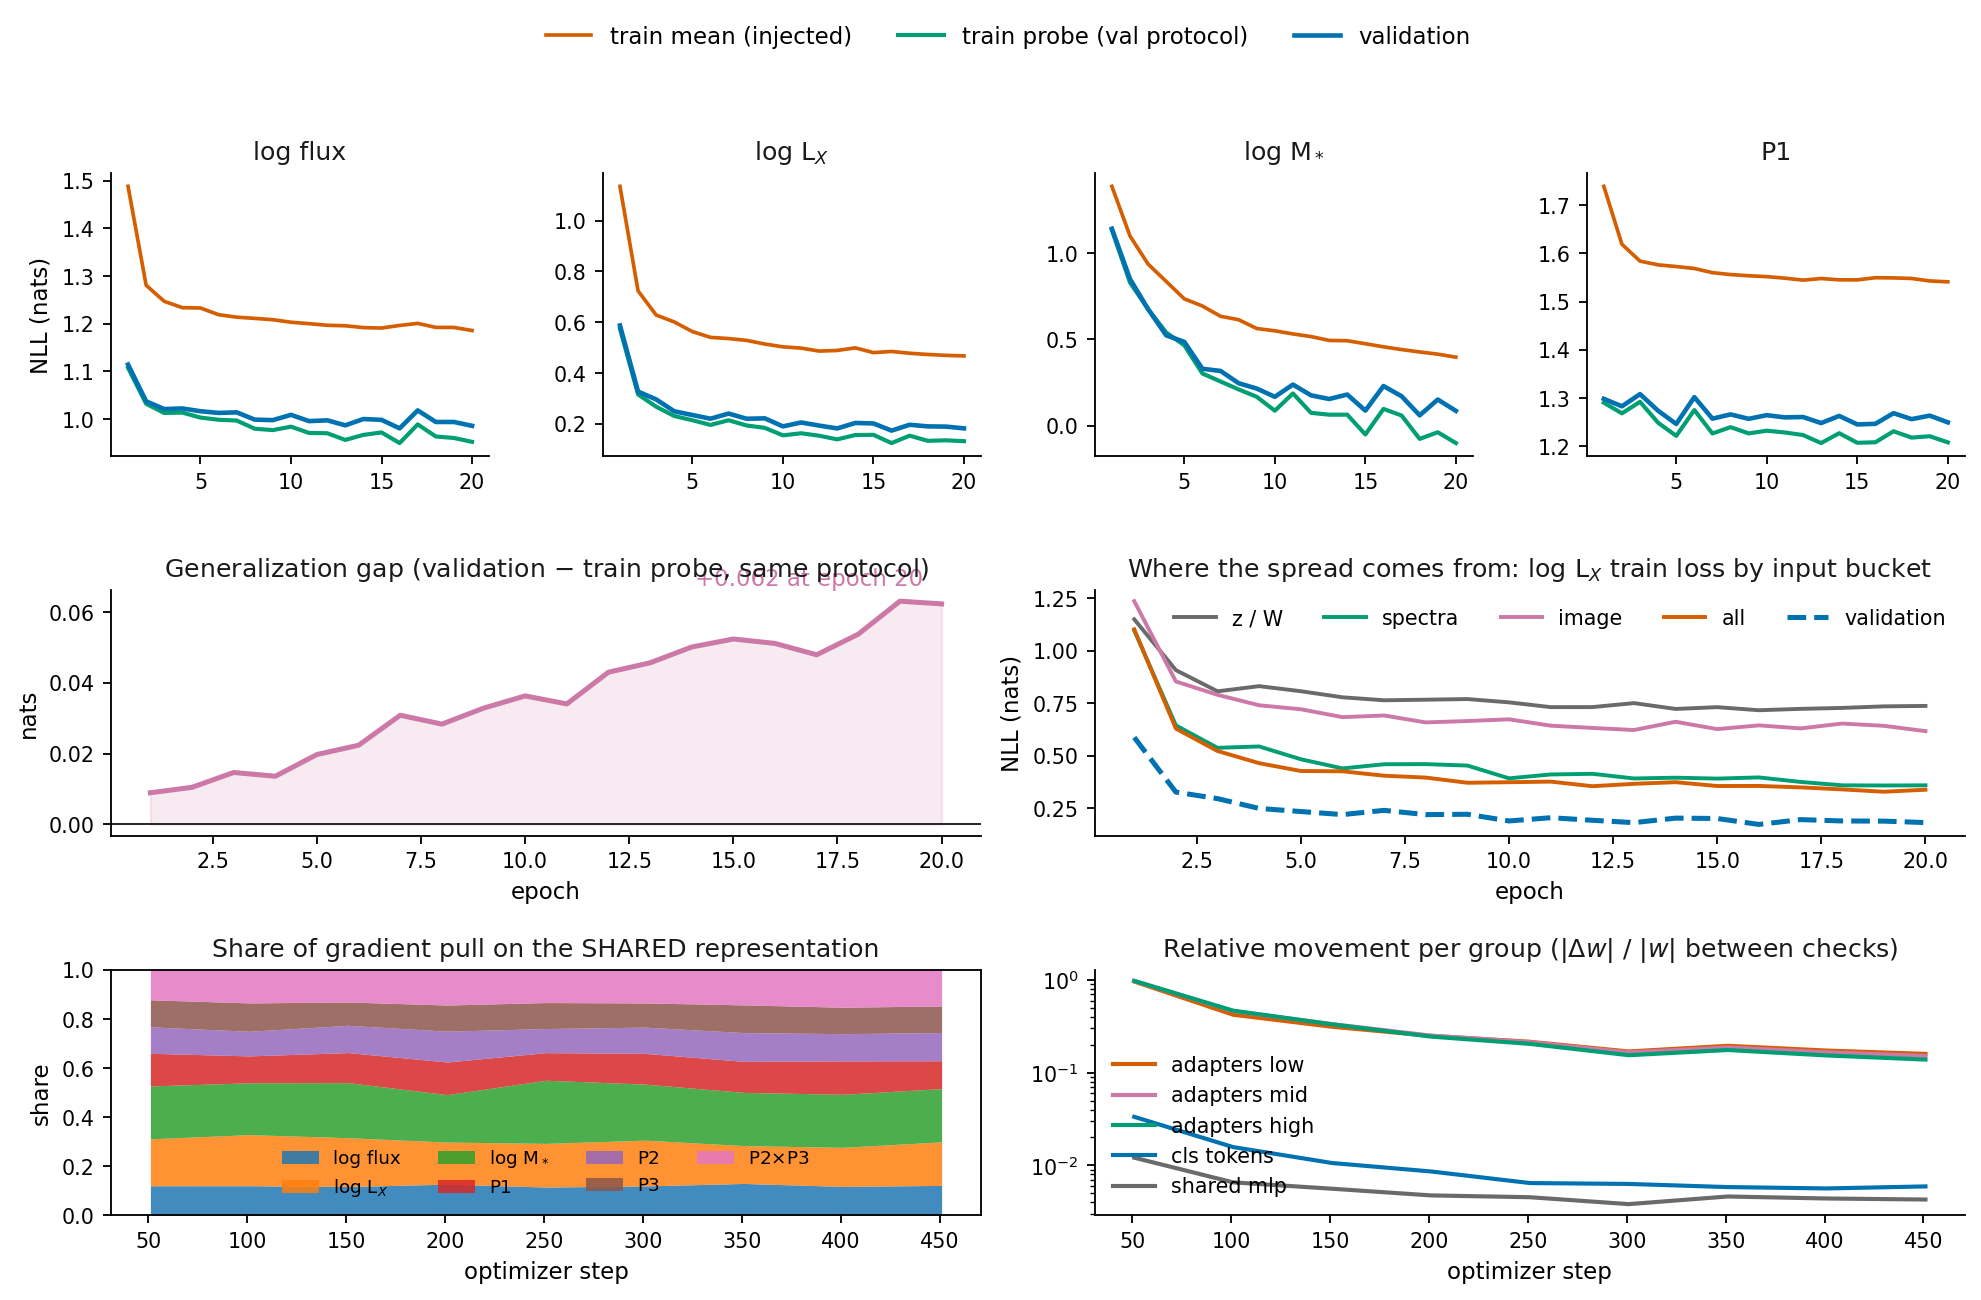
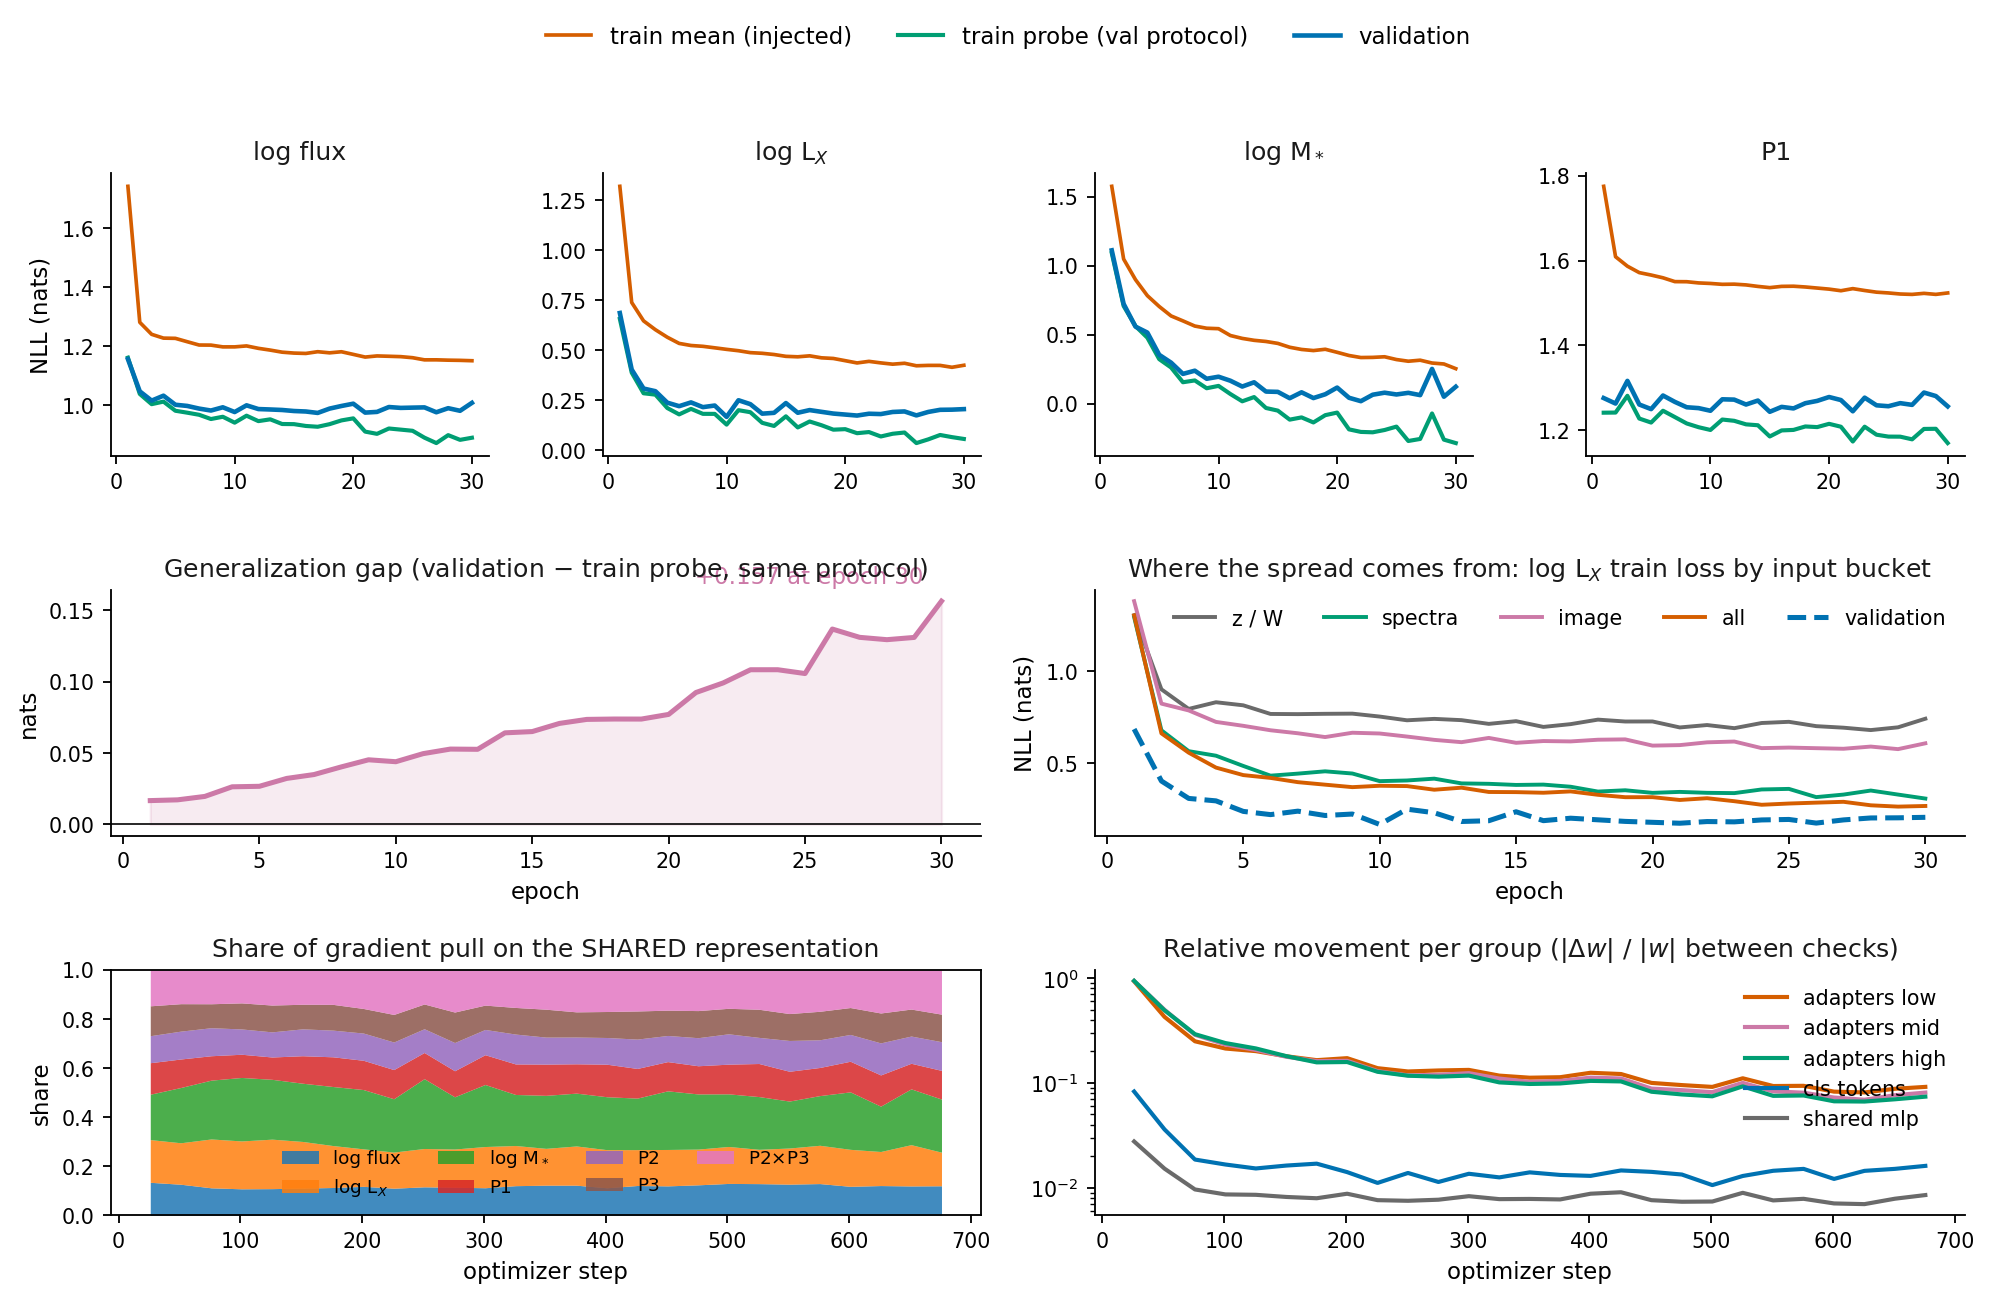
V3 results: accumulation+adapter-LR matches per-step (flux 0.604, M* 0.744); slides refreshed
Claude-Session: https://claude.ai/code/session_01UBstgpgc5mhfYM5hW6yEdG

diff --git a/docs/make_slides.py b/docs/make_slides.py
@@ -163,7 +163,7 @@ def main() -> None:
         fig, ax = new_slide("V3b: read-only CLS, one frozen forward, 8 heads",
                             "no token attends to a CLS: the data stream is bit-identical to frozen AION and runs without gradients")
         bullets(ax, [
-            "8 CLS tokens read every block with the block's own frozen attention",
+            "one CLS token per target reads every block with the block's own frozen attention",
             "shared full-rank deltas on the CLS query + consumed-value projections; capacity control = weight decay",
             "shared MLP 768 $\\to$ 512 $\\to$ 256; sharing ends at the conditioning vectors; one flow per head",
             "joint 2-D flow over (P2, P3) $\\to$ hardness by exact marginalization, never a trained target",
@@ -173,26 +173,26 @@ def main() -> None:
         pdf.savefig(fig); plt.close(fig)
 
         # ---- 8 MAIN RESULT
-        fig, ax = new_slide("V3b results: every target from one 3-hour run",
-                            "test set, all inputs · HR32 is implied: marginalized out of the joint (P2,P3) posterior, never trained")
+        fig, ax = new_slide("V3b results: every target from one run",
+                            "test set, all inputs · P4 dropped (no signal) · HR32 is implied: marginalized out of the joint (P2,P3) posterior, never trained")
         image_panel(fig, FIGS / "fig_v3b_results.png", (0.03, 0.20, 0.94, 0.60))
         fig.text(0.05, 0.155,
-                 "log flux 0.603 against V_PAI's 0.565 on the same test split.\n"
-                 "Hardness was never trained, yet still gains information: 1.13$\\times$ and correlation +0.25 on\n"
-                 "well-measured sources, purely by marginalizing the joint (P2,P3) posterior.",
+                 "log flux 0.604 against V_PAI's 0.565 on the same test split.\n"
+                 "Hardness was never trained, yet still gains information: 1.12$\\times$ on well-measured "
+                 "sources,\npurely by marginalizing the joint (P2,P3) posterior.",
                  fontsize=12, color=INK, va="top")
         pdf.savefig(fig); plt.close(fig)
 
         # ---- 9 Training diagnostics
         fig, ax = new_slide("Training diagnostics",
-                            "accumulated-bucket run: every update sees the full input mix · train probe = training data scored with the validation protocol")
+                            "accumulated buckets, separate adapter learning rate · train probe = training data scored with the validation protocol")
         image_panel(fig, FIGS / "fig_v3b_training.png", (0.015, 0.10, 0.97, 0.72))
         fig.text(0.045, 0.082,
-                 "Convergence is uneven: P1/P2 by epoch 5, logM$_*$ still improving at 20.  "
-                 "Overfitting grows linearly, 0.009 $\\to$ 0.062 nats.\n"
-                 "The old spiky curve was the 0.35-nat spread between input buckets, not optimizer noise.  "
-                 "No head dominates the shared trunk;\nthe adapters move 10-20$\\times$ more than the CLS "
-                 "tokens and the shared MLP.",
+                 "Separating the adapter learning rate moved the flows into the healthy update band "
+                 "(1.2e-4 $\\to$ 7.5e-4 per step), and logM$_*$ gained the most.\n"
+                 "The bucket panel shows the old spiky curve was input composition, not optimizer noise. "
+                 "No head dominates the shared trunk.\nOverfitting is now the binding constraint: the gap "
+                 "reaches 0.16 nats, so early stopping fires at epoch 22.",
                  fontsize=11.5, color=INK, va="top")
         pdf.savefig(fig); plt.close(fig)
 
@@ -201,7 +201,7 @@ def main() -> None:
                             "V_PAI trained on the same cleaned data and scored on the same test split · the published 0.549 used the noisy split and is not row-comparable")
         cmp = pd.DataFrame([
             {"": "V_PAI (paper head)", "targets": "1 (flux)", "runs": "1", "flux R²": "0.565"},
-            {"": "V3b multi-head", "targets": "7 + hardness", "runs": "1", "flux R²": "0.603"},
+            {"": "V3b multi-head", "targets": "6 + hardness", "runs": "1", "flux R²": "0.604"},
         ])
         metric_table(ax, cmp, rect=(0.04, 0.46, 0.62, 0.34), fontsize=13)
         ax2 = fig.add_axes([0.70, 0.42, 0.28, 0.38]); ax2.axis("off")

diff --git a/docs/decisions.md b/docs/decisions.md
@@ -225,6 +225,23 @@ NEUTRAL and buys interpretability, not accuracy.
   a lower adapter LR or stronger decay in the next regime.
 Figure: `docs/figures/fig_v3b_training.png` (docs/make_training_diagnostics.py).
 
+**V3 RUN: accumulation + separated adapter LR (job 35416432, 30 ep, early stop
+at 22, 4.05 h) — closes the accumulation question.** Config: accumulated
+buckets, P4 dropped, lr 3e-4 for flows/MLP/CLS with **adapter-lr 1e-4** and
+beta1 0.95. Test all-inputs vs the per-step multi-target run: **flux 0.604
+(was 0.603), Lx 0.919 (0.917), logM★ 0.744 (0.731)**; bands ~0.010 lower
+(P1 0.364, P2 0.404, P3 0.406). Flux IG 0.300 (was 0.282). HR implied:
+IG +0.115 / 1.12x on hr32_ok, corr +0.173 (was +0.249 — the correlation is
+noisier than the IG and moved against us).
+**Mechanism confirmed:** the flows had been frozen by a shared LR (update/weight
+1.2e-4, ~10x below the healthy band) because they are standard-init (|w|~40)
+while the adapters are zero-init (|w|~3); separating the LR moved them to
+7.5e-4, and logM★ — the head that had been furthest from converged — gained
+most. **Verdict: accumulation is wall-time neutral and now matches per-step;
+it buys interpretability, not accuracy.** New binding constraint is
+overfitting: the train-probe gap reaches 0.157 nats (3x the previous run), so
+the next lever is regularization or a shorter schedule, not more LR.
+
 **wandb retention policy (2026-07-25, applied):** delete failed/crashed/
 superseded runs and plumbing smokes whose numbers live in this registry
 (17 deleted); KEEP every finished run with results, the calibration-grid runs
